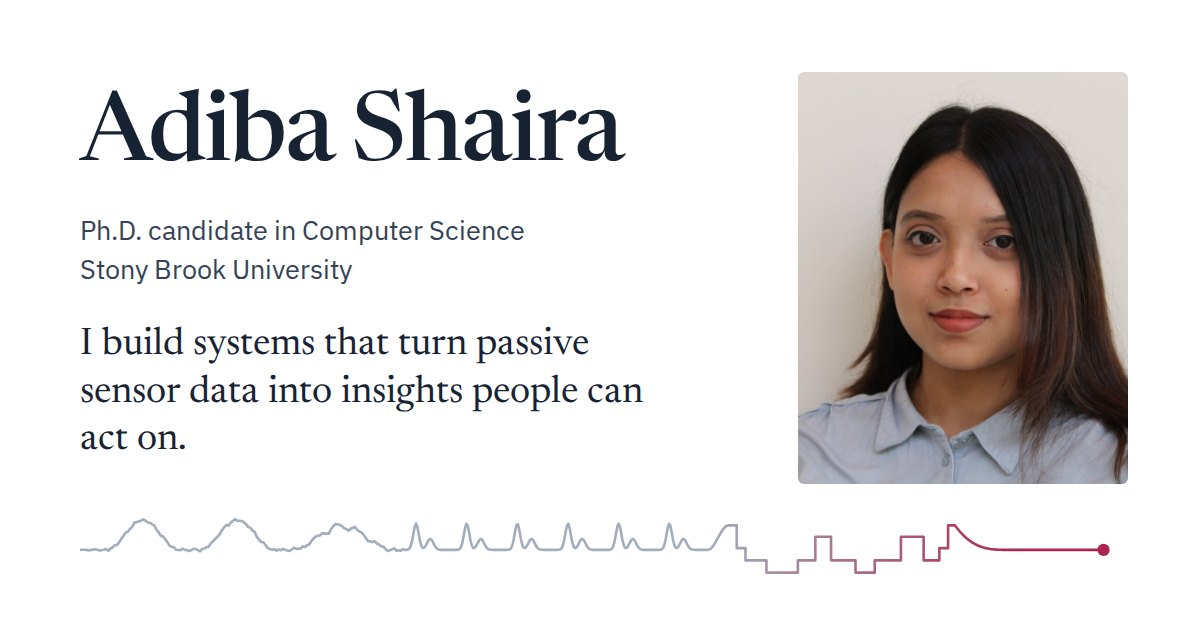
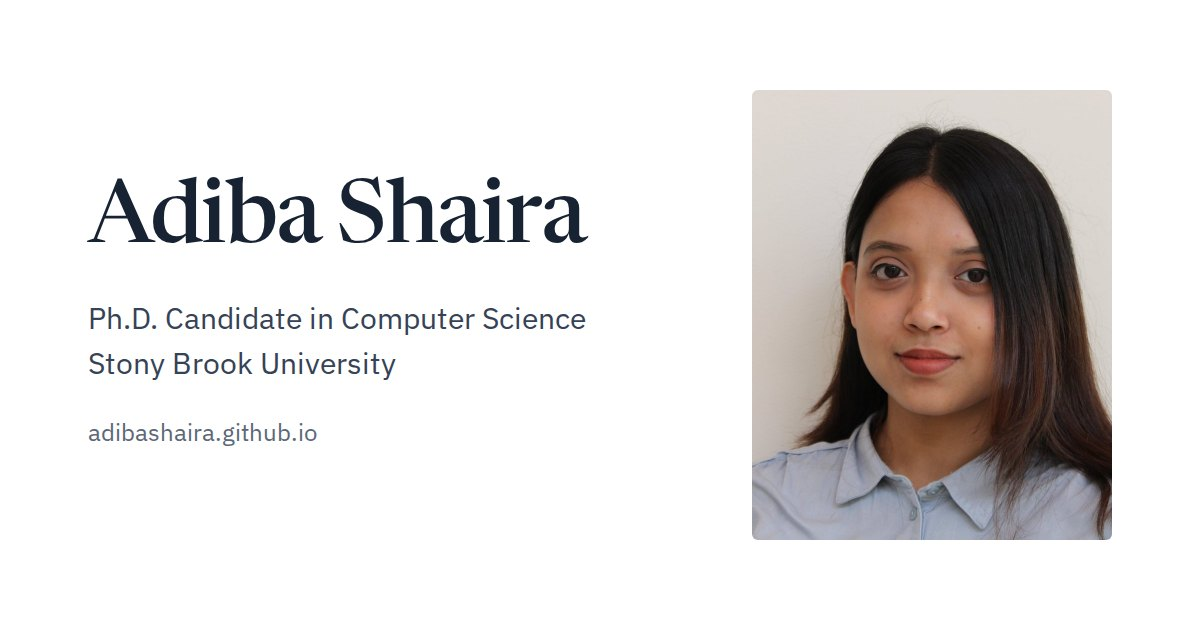
Use a plain hero and formal wording
- Remove the signal graphic and the tagline from the hero
- Rewrite the About and Research text in a formal academic tone
- Simplify the social preview image and site icon

Claude-Session: https://claude.ai/code/session_0199Fhnu9CKM5iHg6YBL764K

diff --git a/index.html b/index.html
@@ -12,7 +12,7 @@
 
   <meta property="og:type" content="profile">
   <meta property="og:title" content="Adiba Shaira">
-  <meta property="og:description" content="Ph.D. candidate in Computer Science at Stony Brook University, building systems that turn passive sensor data into insights people can act on.">
+  <meta property="og:description" content="Ph.D. candidate in Computer Science at Stony Brook University working on wearable health sensing, physiological time-series modeling, and LLM-based systems for digital health.">
   <meta property="og:url" content="https://adibashaira.github.io/">
   <meta property="og:image" content="https://adibashaira.github.io/assets/img/og-image.jpg">
   <meta property="og:image:width" content="1200">
@@ -103,9 +103,8 @@
         <div class="hero__grid">
           <div class="hero__text">
             <h1 class="hero__name" id="name">Adiba Shaira</h1>
-            <p class="hero__role">Ph.D. candidate in Computer Science, Stony Brook University</p>
+            <p class="hero__role">Ph.D. Candidate in Computer Science, Stony Brook University</p>
             <p class="hero__role"><a href="https://picasso.cs.stonybrook.edu/">PiCASSo Lab</a>, advised by <a href="https://www3.cs.stonybrook.edu/~jain/">Prof. Shubham Jain</a></p>
-            <p class="hero__lede">I build systems that turn passive sensor data into insights people can act on.</p>
             <ul class="hero__links">
               <li><a class="button" href="CV.pdf">CV (PDF)</a></li>
               <li><a href="mailto:adibashairarifa@gmail.com">adibashairarifa@gmail.com</a></li>
@@ -119,21 +118,6 @@
               <img src="assets/img/adiba-shaira.jpg" width="720" height="900" alt="Portrait of Adiba Shaira" fetchpriority="high">
             </picture>
           </figure>
-        </div>
-
-        <div class="signal" aria-hidden="true">
-          <svg viewBox="0 0 1200 120" preserveAspectRatio="xMidYMid meet" focusable="false">
-            <defs>
-              <linearGradient id="signal-gradient" x1="0" y1="0" x2="1200" y2="0" gradientUnits="userSpaceOnUse">
-                <stop offset="0" class="signal__stop-raw"/>
-                <stop offset="0.6" class="signal__stop-raw"/>
-                <stop offset="0.9" class="signal__stop-insight"/>
-                <stop offset="1" class="signal__stop-insight"/>
-              </linearGradient>
-            </defs>
-            <path class="signal__trace" pathLength="1" d="M0.0 72.0 L2.5 71.9 L5.0 71.9 L7.5 72.0 L10.0 72.6 L12.5 72.0 L15.0 71.8 L17.5 71.3 L20.0 71.8 L22.5 72.9 L25.0 72.2 L27.5 71.8 L30.0 71.0 L32.5 73.0 L35.0 70.4 L37.5 69.0 L40.0 66.6 L42.5 66.3 L45.0 63.1 L47.5 59.1 L50.0 55.5 L52.5 52.0 L55.0 51.0 L57.5 47.8 L60.0 45.2 L62.5 40.4 L65.0 40.4 L67.5 39.3 L70.0 38.6 L72.5 37.1 L75.0 38.5 L77.5 40.6 L80.0 40.9 L82.5 42.7 L85.0 44.0 L87.5 48.7 L90.0 51.6 L92.5 55.9 L95.0 56.6 L97.5 59.6 L100.0 63.3 L102.5 67.1 L105.0 68.5 L107.5 69.0 L110.0 71.9 L112.5 72.1 L115.0 72.4 L117.5 70.6 L120.0 72.1 L122.5 72.1 L125.0 73.4 L127.5 72.2 L130.0 70.9 L132.5 71.0 L135.0 72.3 L137.5 73.7 L140.0 70.9 L142.5 70.4 L145.0 68.8 L147.5 68.3 L150.0 64.1 L152.5 62.0 L155.0 59.2 L157.5 57.0 L160.0 53.9 L162.5 49.5 L165.0 46.3 L167.5 43.6 L170.0 44.2 L172.5 41.0 L175.0 38.9 L177.5 36.8 L180.0 38.6 L182.5 38.6 L185.0 38.9 L187.5 40.3 L190.0 42.4 L192.5 45.6 L195.0 46.8 L197.5 50.0 L200.0 51.5 L202.5 57.1 L205.0 60.4 L207.5 63.0 L210.0 63.3 L212.5 66.4 L215.0 70.0 L217.5 71.0 L220.0 71.8 L222.5 71.2 L225.0 72.8 L227.5 71.6 L230.0 72.4 L232.5 70.9 L235.0 71.9 L237.5 72.6 L240.0 73.3 L242.5 71.6 L245.0 69.5 L247.5 70.8 L250.0 70.7 L252.5 70.7 L255.0 68.0 L257.5 68.6 L260.0 66.7 L262.5 65.5 L265.0 61.9 L267.5 58.9 L270.0 56.7 L272.5 55.7 L275.0 55.4 L277.5 52.8 L280.0 53.4 L282.5 53.3 L285.0 53.4 L287.5 48.1 L290.0 44.9 L292.5 42.5 L295.0 42.7 L297.5 43.5 L300.0 44.8 L302.5 47.2 L305.0 48.1 L307.5 50.1 L310.0 47.8 L312.5 46.7 L315.0 45.7 L317.5 49.3 L320.0 50.7 L322.5 52.3 L325.0 55.0 L327.5 58.7 L330.0 62.1 L332.5 62.1 L335.0 63.1 L337.5 62.2 L340.0 64.7 L342.5 65.8 L345.0 68.0 L347.5 68.4 L350.0 71.1 L352.5 73.2 L355.0 72.4 L357.5 71.1 L360.0 70.4 L362.5 73.0 L365.0 72.4 L367.5 72.9 L370.0 71.1 L372.0 72.0 L373.6 72.0 L375.2 71.8 L376.8 70.9 L378.4 68.5 L380.0 62.9 L381.6 54.3 L383.2 45.6 L384.8 42.0 L386.4 46.0 L388.0 54.7 L389.6 63.2 L391.2 68.3 L392.8 69.9 L394.4 69.2 L396.0 66.9 L397.6 63.8 L399.2 60.8 L400.8 59.4 L402.4 60.3 L404.0 62.9 L405.6 66.2 L407.2 68.9 L408.8 70.6 L410.4 71.5 L412.0 71.9 L413.6 72.0 L415.2 72.0 L416.8 72.0 L418.4 72.0 L420.0 72.0 L421.6 72.0 L423.2 72.0 L424.8 72.0 L426.4 72.0 L428.0 72.0 L429.6 72.0 L431.2 72.0 L432.8 71.8 L434.4 71.3 L436.0 69.3 L437.6 64.7 L439.2 56.6 L440.8 47.5 L442.4 42.2 L444.0 44.3 L445.6 52.4 L447.2 61.3 L448.8 67.4 L450.4 69.8 L452.0 69.6 L453.6 67.6 L455.2 64.6 L456.8 61.4 L458.4 59.6 L460.0 59.9 L461.6 62.2 L463.2 65.4 L464.8 68.3 L466.4 70.3 L468.0 71.4 L469.6 71.8 L471.2 71.9 L472.8 72.0 L474.4 72.0 L476.0 72.0 L477.6 72.0 L479.2 72.0 L480.8 72.0 L482.4 72.0 L484.0 72.0 L485.6 72.0 L487.2 72.0 L488.8 72.0 L490.4 71.9 L492.0 71.5 L493.6 70.0 L495.2 66.1 L496.8 58.9 L498.4 49.6 L500.0 42.9 L501.6 43.1 L503.2 50.1 L504.8 59.3 L506.4 66.2 L508.0 69.5 L509.6 69.8 L511.2 68.2 L512.8 65.4 L514.4 62.2 L516.0 59.9 L517.6 59.6 L519.2 61.5 L520.8 64.6 L522.4 67.7 L524.0 69.9 L525.6 71.2 L527.2 71.7 L528.8 71.9 L530.4 72.0 L532.0 72.0 L533.6 72.0 L535.2 72.0 L536.8 72.0 L538.4 72.0 L540.0 72.0 L541.6 72.0 L543.2 72.0 L544.8 72.0 L546.4 72.0 L548.0 71.9 L549.6 71.6 L551.2 70.5 L552.8 67.4 L554.4 61.0 L556.0 51.9 L557.6 44.1 L559.2 42.3 L560.8 47.9 L562.4 57.1 L564.0 64.8 L565.6 69.0 L567.2 70.0 L568.8 68.8 L570.4 66.2 L572.0 62.9 L573.6 60.3 L575.2 59.4 L576.8 60.8 L578.4 63.8 L580.0 67.0 L581.6 69.5 L583.2 70.9 L584.8 71.6 L586.4 71.9 L588.0 72.0 L589.6 72.0 L591.2 72.0 L592.8 72.0 L594.4 72.0 L596.0 72.0 L597.6 72.0 L599.2 72.0 L600.8 72.0 L602.4 72.0 L604.0 72.0 L605.6 72.0 L607.2 71.8 L608.8 70.9 L610.4 68.5 L612.0 62.9 L613.6 54.3 L615.2 45.6 L616.8 42.0 L618.4 46.0 L620.0 54.7 L621.6 63.2 L623.2 68.3 L624.8 69.9 L626.4 69.2 L628.0 66.9 L629.6 63.8 L631.2 60.8 L632.8 59.4 L634.4 60.3 L636.0 62.9 L637.6 66.2 L639.2 68.9 L640.8 70.6 L642.4 71.5 L644.0 71.9 L645.6 72.0 L647.2 72.0 L648.8 72.0 L650.4 72.0 L652.0 72.0 L653.6 72.0 L655.2 72.0 L656.8 72.0 L658.4 72.0 L660.0 72.0 L661.6 72.0 L663.2 72.0 L664.8 71.8 L666.4 71.3 L668.0 69.3 L669.6 64.7 L671.2 56.6 L672.8 47.5 L674.4 42.2 L676.0 44.3 L677.6 52.4 L679.2 61.3 L680.8 67.4 L682.4 69.8 L684.0 69.6 L685.6 67.6 L687.2 64.6 L688.8 61.4 L690.4 59.6 L692.0 59.9 L693.6 62.2 L695.2 65.4 L696.8 68.3 L698.4 70.3 L700.0 71.4 L701.6 71.8 L703.2 71.9 L704.8 72.0 L706.4 72.0 L708.0 72.0 L709.6 72.0 L711.2 72.0 L712.8 72.0 L714.4 72.0 L716.0 72.0 L717.6 72.0 L719.2 72.0 L722.1 70.8 L724.9 67.6 L727.8 63.1 L730.6 58.0 L733.5 52.9 L736.3 48.4 L739.2 45.2 L742.0 44.0 L752.0 44.0 L752.0 70.0 L762.0 70.0 L762.0 84.0 L786.0 84.0 L786.0 98.0 L822.0 98.0 L822.0 84.0 L842.0 84.0 L842.0 57.0 L860.0 57.0 L860.0 84.0 L888.0 84.0 L888.0 98.0 L910.0 98.0 L910.0 84.0 L940.0 84.0 L940.0 57.0 L966.0 57.0 L966.0 84.0 L984.0 84.0 L984.0 70.0 L994.0 70.0 L994.0 44.0 L1002.0 44.0 L1004.5 47.4 L1007.0 50.4 L1009.5 53.2 L1012.0 55.8 L1014.5 58.1 L1017.0 60.2 L1019.5 62.0 L1022.0 63.7 L1024.5 65.2 L1027.0 66.4 L1029.5 67.6 L1032.0 68.5 L1034.5 69.3 L1037.0 70.0 L1039.5 70.5 L1042.0 71.0 L1044.5 71.3 L1047.0 71.6 L1049.5 71.7 L1052.0 71.9 L1054.5 71.9 L1057.0 72.0 L1059.5 72.0 L1062.0 72.0 L1166.0 72.0"/>
-            <circle class="signal__dot" cx="1172" cy="72" r="5.5"/>
-          </svg>
         </div>
       </div>
     </section>
@@ -154,9 +138,9 @@
             </ul>
           </div>
           <div class="row__body prose">
-            <p>I'm a fourth-year Ph.D. candidate in Computer Science at Stony Brook University, where I work in the <a href="https://picasso.cs.stonybrook.edu/">PiCASSo Lab</a> with <a href="https://www3.cs.stonybrook.edu/~jain/">Prof. Shubham Jain</a>. My research spans wearable health sensing, multimodal physiological time-series modeling, and LLM-based agents for digital health.</p>
-            <p>I focus on situations where a timely, understandable answer matters. LiftSafe warns lifters about an unsafe repetition before they perform it, using one arm-worn sensor. CareQA helps caregivers of autistic children make sense of their child's sleep and physiological data by asking questions in plain language. With a cohort of World Trade Center 9/11 first responders, I measure sleep for PTSD monitoring using only the phone they already carry.</p>
-            <p>Before Stony Brook, I earned a B.Sc. in Computer Science and Engineering from BUET and taught HCI, algorithms, and computer networks as a lecturer at United International University in Dhaka. I received my M.S. from Stony Brook in December 2025 on the way to the Ph.D.</p>
+            <p>I am a fourth-year Ph.D. candidate in Computer Science at Stony Brook University, advised by <a href="https://www3.cs.stonybrook.edu/~jain/">Prof. Shubham Jain</a> in the <a href="https://picasso.cs.stonybrook.edu/">PiCASSo Lab</a>. My research focuses on wearable health sensing, multimodal physiological time-series modeling, and large language model (LLM) based systems for digital health.</p>
+            <p>My recent work includes LiftSafe, which predicts unsafe strength-training repetitions from a single arm-worn inertial sensor (IEEE/ACM CHASE 2026); CareQA, a multi-agent LLM system that answers caregivers' questions about their autistic child's sleep and physiological data; and passive smartphone-based sleep sensing for PTSD monitoring in a World Trade Center 9/11 first-responder cohort.</p>
+            <p>I received my M.S. in Computer Science from Stony Brook University in December 2025 and my B.Sc. in Computer Science and Engineering from Bangladesh University of Engineering and Technology (BUET). Before joining Stony Brook, I was a Lecturer at United International University in Dhaka, where I taught Human-Computer Interaction, Analysis of Algorithms, and Computer Networks.</p>
           </div>
         </div>
       </div>
@@ -200,12 +184,12 @@
             <p>IEEE PerCom 2027</p>
           </div>
           <div class="row__body">
-            <h3 class="project__title" id="careqa-title">CareQA: sensemaking for caregivers in autism care</h3>
-            <p>Caregivers of autistic children, especially children who are minimally speaking, often have to work out on their own what was behind a restless night or a hard day. CareQA lets them ask about it in plain language, such as <q>why was his sleep so restless last night?</q>, and answers from the child's own passively sensed data: wristband physiology, EEG-based sleep staging, an under-mattress sleep sensor, and caregiver diaries from the <a href="https://www.sfari.org/resource/simons-sleep-project/">Simons Sleep Project</a>. CareQA plans each analysis, computes the evidence from the child's record, and explains what the data shows without giving medical advice.</p>
+            <h3 class="project__title" id="careqa-title">CareQA: Multi-Agent Sensemaking for Caregivers in Autism Care</h3>
+            <p>CareQA is a multi-agent LLM system that answers caregivers' natural-language questions about their autistic child's sleep, activity, and physiological signals using passively sensed data from the <a href="https://www.sfari.org/resource/simons-sleep-project/">Simons Sleep Project</a>, including wristband physiology, EEG-based sleep staging, an under-mattress sleep sensor, and caregiver diaries. The system plans each analysis, computes the evidence from the child's own record, and explains the findings without giving medical advice.</p>
             <div class="now">
-              <p><strong>Now:</strong> we are building an interactive dashboard that pairs visualizations of a child's sensor data with CareQA's explanations, and designing a caregiver study around it so that caregivers' own questions shape the next version of the system.</p>
+              <p><strong>Current work:</strong> an interactive visualization dashboard that pairs a child's sensor data with CareQA's explanations, and a caregiver study that grounds the system's questions and answers in caregivers' needs.</p>
             </div>
-            <p class="project__links"><a href="#pub-careqa">See the publication entry</a></p>
+            <p class="project__links"><a href="#pub-careqa">Publication</a></p>
           </div>
         </article>
 
@@ -215,9 +199,9 @@
             <p>IEEE/ACM CHASE 2026</p>
           </div>
           <div class="row__body">
-            <h3 class="project__title" id="liftsafe-title">LiftSafe: catching unsafe lifts one repetition early</h3>
-            <p>As fatigue builds during a set, lifting form degrades and the risk of injury rises. LiftSafe predicts whether the next repetition will be safe or unsafe from a single inertial measurement unit (IMU) worn on the upper arm, so a lifter can be warned before it happens. It combines time-series forecasting with contrastive learning and a progression-aware fusion module that tracks fatigue across the set. In a 24-participant study of bench, overhead, and lateral presses with EMG ground truth, LiftSafe reached 87% balanced accuracy under leave-one-subject-out validation.</p>
-            <p class="project__links"><a href="https://picasso.cs.stonybrook.edu/bibcite/reference/47">Read the LiftSafe paper</a></p>
+            <h3 class="project__title" id="liftsafe-title">LiftSafe: Predicting Unsafe Repetitions in Strength Training</h3>
+            <p>LiftSafe predicts whether the next repetition in a strength-training set will be safe or unsafe using a single inertial measurement unit (IMU) worn on the upper arm, so that a lifter can be warned before the repetition is performed. It combines time-series forecasting with contrastive learning and a progression-aware fusion module that models fatigue across the set. In a 24-participant study of bench, overhead, and lateral presses with EMG ground truth, LiftSafe achieved 87% balanced accuracy under leave-one-subject-out validation.</p>
+            <p class="project__links"><a href="https://picasso.cs.stonybrook.edu/bibcite/reference/47">Paper</a></p>
           </div>
         </article>
 
@@ -227,8 +211,8 @@
             <p>2025&ndash;present</p>
           </div>
           <div class="row__body">
-            <h3 class="project__title" id="ptsd-title">Passive sleep sensing for PTSD</h3>
-            <p>Disrupted sleep is a core symptom of PTSD, but tracking it usually takes a dedicated device or a sleep diary. Working with a World Trade Center 9/11 first-responder cohort, I extract sleep metrics passively from smartphone accelerometer and screen-state data and relate them to clinical PCL scores through longitudinal statistical modeling.</p>
+            <h3 class="project__title" id="ptsd-title">Passive Smartphone Sleep Sensing for PTSD Monitoring</h3>
+            <p>Sleep disturbance is a core symptom of PTSD. In a World Trade Center 9/11 first-responder cohort, I extract sleep metrics passively from smartphone accelerometer and screen-state data and relate them to clinical PCL scores through longitudinal statistical modeling.</p>
           </div>
         </article>
       </div>

diff --git a/assets/css/site.css b/assets/css/site.css
@@ -38,7 +38,6 @@
   --accent-text: #9f2048;
   --accent-line: rgba(173, 37, 80, 0.42);
   --accent-wash: #fbecf1;
-  --signal-raw: #a3adbb;
   --review-bg: #fdf0d5;
   --review-ink: #6f4508;
   --ongoing-bg: #e6eaf0;
@@ -69,7 +68,6 @@
     --accent-text: #f48aab;
     --accent-line: rgba(239, 111, 150, 0.5);
     --accent-wash: #2c1823;
-    --signal-raw: #4f5d72;
     --review-bg: #3b2c10;
     --review-ink: #f2d08f;
     --ongoing-bg: #222d3d;
@@ -91,7 +89,6 @@
   --accent-text: #f48aab;
   --accent-line: rgba(239, 111, 150, 0.5);
   --accent-wash: #2c1823;
-  --signal-raw: #4f5d72;
   --review-bg: #3b2c10;
   --review-ink: #f2d08f;
   --ongoing-bg: #222d3d;
@@ -240,7 +237,7 @@ q { quotes: "\201C" "\201D"; }
 .menu-toggle { display: none; }
 
 /* ---------- Hero ---------- */
-.hero { padding-top: clamp(40px, 7vw, 92px); }
+.hero { padding-top: clamp(40px, 7vw, 88px); padding-bottom: clamp(48px, 7vw, 88px); }
 
 .hero__grid {
   display: grid;
@@ -252,7 +249,7 @@ q { quotes: "\201C" "\201D"; }
 .hero__name {
   margin: 0 0 22px;
   font-family: var(--display);
-  font-size: clamp(2.75rem, 6.4vw, 4.75rem);
+  font-size: clamp(2.5rem, 5.2vw, 3.875rem);
   font-weight: 500;
   font-optical-sizing: auto;
   line-height: 0.98;
@@ -263,16 +260,6 @@ q { quotes: "\201C" "\201D"; }
   color: var(--ink-2);
   font-size: 1.125rem;
   line-height: 1.55;
-}
-
-.hero__lede {
-  max-width: 22em;
-  margin-top: 30px;
-  font-family: var(--display);
-  font-size: clamp(1.45rem, 2.5vw, 1.875rem);
-  font-weight: 400;
-  line-height: 1.28;
-  letter-spacing: -0.005em;
 }
 
 .hero__links {
@@ -305,40 +292,8 @@ q { quotes: "\201C" "\201D"; }
   background: var(--band);
 }
 
-/* The signal: motion, pulse and sleep settling into one clear line */
-.signal { margin-top: clamp(40px, 6vw, 72px); }
-.signal svg { display: block; width: 100%; height: auto; overflow: visible; }
-.signal__trace {
-  fill: none;
-  stroke: url(#signal-gradient);
-  stroke-width: 2;
-  stroke-linecap: round;
-  stroke-linejoin: round;
-}
-.signal__stop-raw { stop-color: var(--signal-raw); }
-.signal__stop-insight { stop-color: var(--accent); }
-.signal__dot { fill: var(--accent); }
-
-.js .signal__trace {
-  stroke-dasharray: 1;
-  stroke-dashoffset: 1;
-  animation: signal-draw 2.6s cubic-bezier(0.45, 0.05, 0.3, 1) 0.2s forwards;
-}
-.js .signal__dot {
-  transform: scale(0);
-  transform-box: fill-box;
-  transform-origin: center;
-  animation: signal-dot 0.5s ease-out 2.7s forwards;
-}
-@keyframes signal-draw { to { stroke-dashoffset: 0; } }
-@keyframes signal-dot {
-  60% { transform: scale(1.4); }
-  to { transform: scale(1); }
-}
-
 /* ---------- Sections ---------- */
 .section { padding: clamp(56px, 8vw, 104px) 0; }
-.hero + .section { margin-top: clamp(36px, 5vw, 56px); }
 .section--band { background: var(--band); }
 
 .section-title {
@@ -509,9 +464,6 @@ q { quotes: "\201C" "\201D"; }
 @media (max-width: 720px) {
   .hero__grid { grid-template-columns: minmax(0, 1fr); }
   .hero__photo { order: -1; width: 168px; margin-bottom: 28px; }
-  .hero__lede { margin-top: 24px; }
-  .signal__trace { stroke-width: 4; }
-  .signal__dot { r: 9; }
 
   .row { grid-template-columns: minmax(0, 1fr); row-gap: 4px; }
   .row__meta { padding-top: 0; }
@@ -527,13 +479,11 @@ q { quotes: "\201C" "\201D"; }
 
 @media (prefers-reduced-motion: reduce) {
   html { scroll-behavior: auto; }
-  .js .signal__trace { animation: none; stroke-dashoffset: 0; }
-  .js .signal__dot { animation: none; transform: none; }
   a, .topbar { transition: none; }
 }
 
 @media print {
-  .topbar, .signal, .skip-link { display: none; }
+  .topbar, .skip-link { display: none; }
   .section--band { background: none; }
   a { text-decoration: none; }
 }
